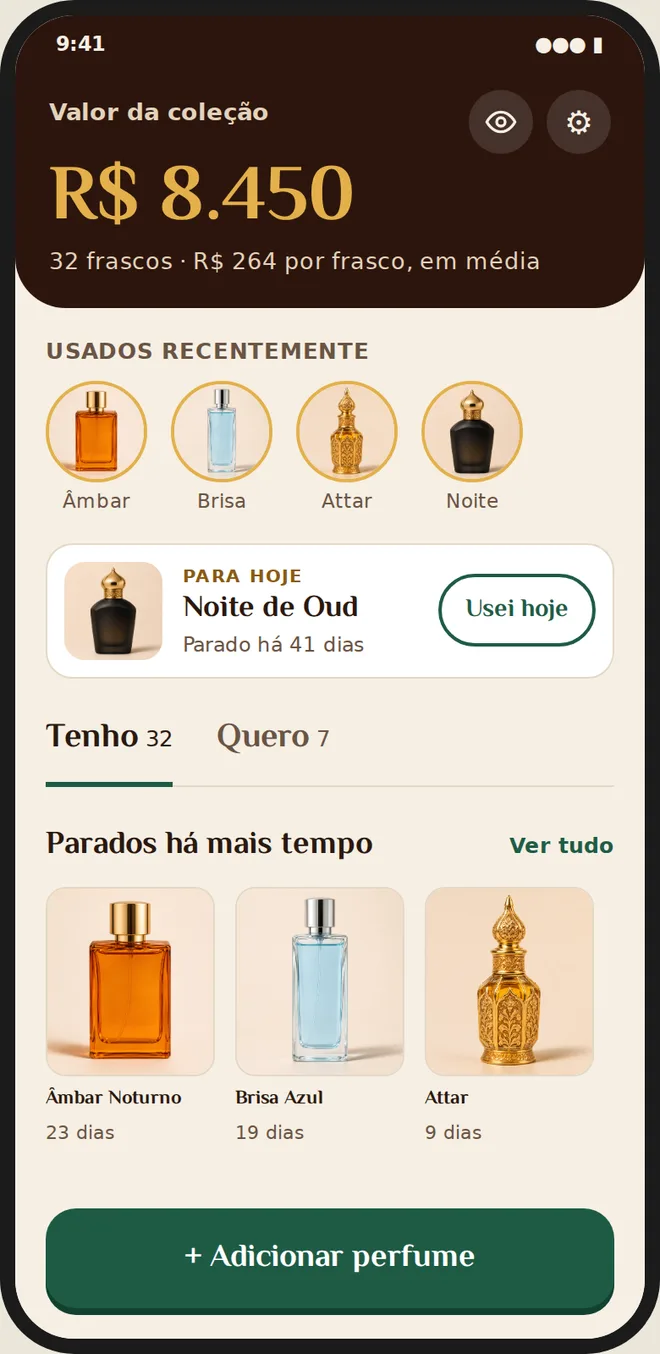
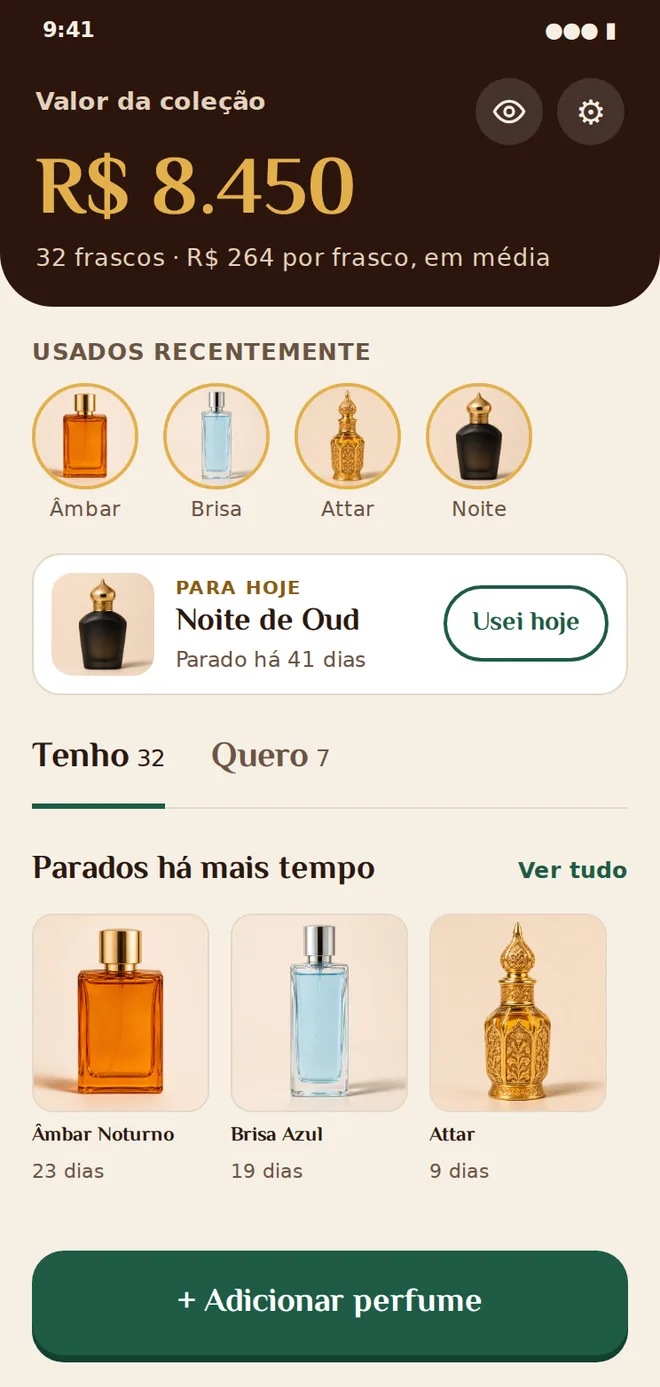
Render the Frasco screens without the canvas device frame
The design canvas wraps each screen in a 9px bezel. Crop it out so the
screens match the other case studies.

diff --git a/src/components/site/frasco-case.tsx b/src/components/site/frasco-case.tsx
@@ -187,7 +187,7 @@ export function FrascoCase({ lang }: { lang: Lang }) {
         </div>
         <div className={`${s.stage} reveal`} style={{ background: TINT }}>
           <div className={s.phone}>
-            <Image alt={t.heroAlt} height={1354} priority sizes="(max-width: 900px) 62vw, 300px" src="/apps/frasco/collection.webp" width={660} />
+            <Image alt={t.heroAlt} height={1387} priority sizes="(max-width: 900px) 62vw, 300px" src="/apps/frasco/collection.webp" width={660} />
           </div>
         </div>
       </section>
@@ -220,7 +220,7 @@ export function FrascoCase({ lang }: { lang: Lang }) {
                 <div className={s.shot}>
                   <Image
                     alt={t.screenAlt(screen.title)}
-                    height={1354}
+                    height={1387}
                     loading="lazy"
                     sizes="(max-width: 600px) 70vw, (max-width: 900px) 34vw, 260px"
                     src={`/apps/frasco/${shots[index]}.webp`}
